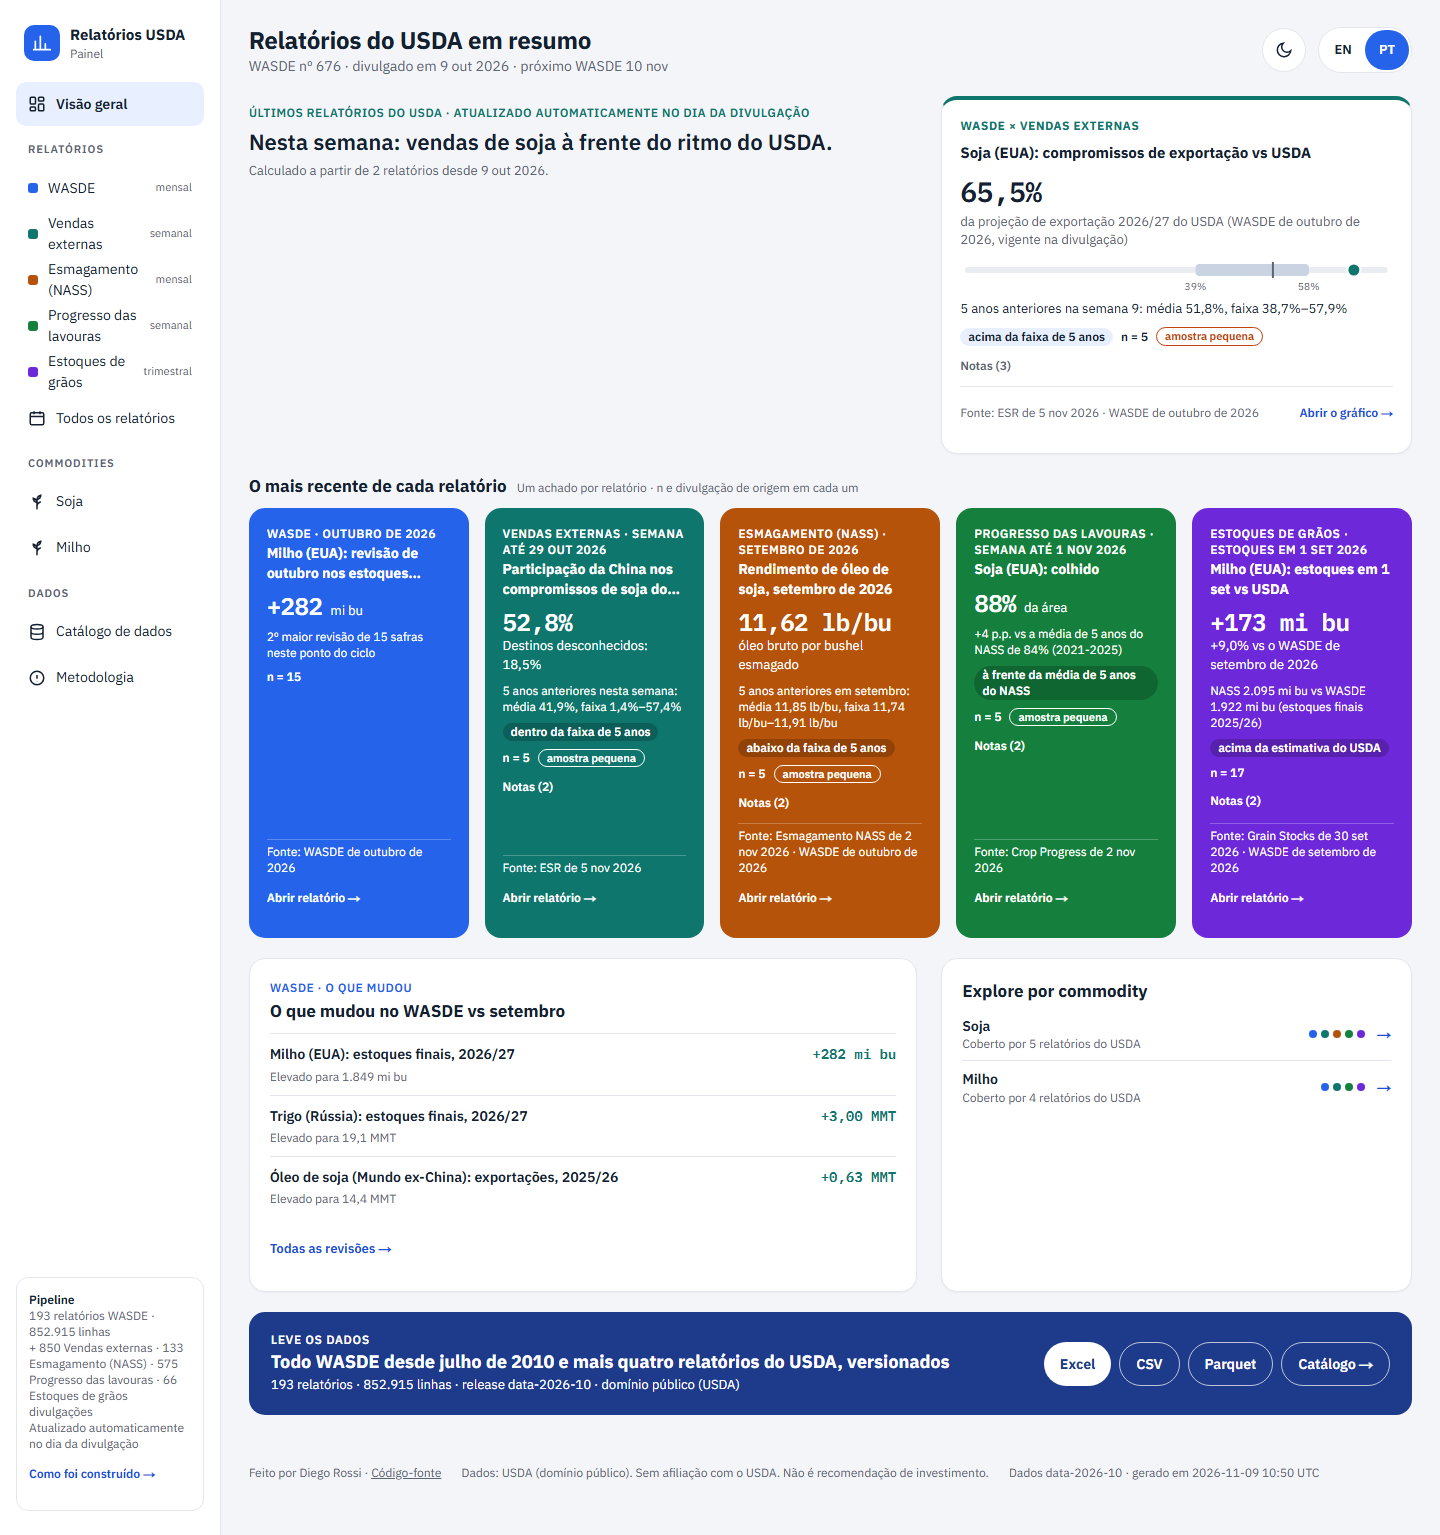
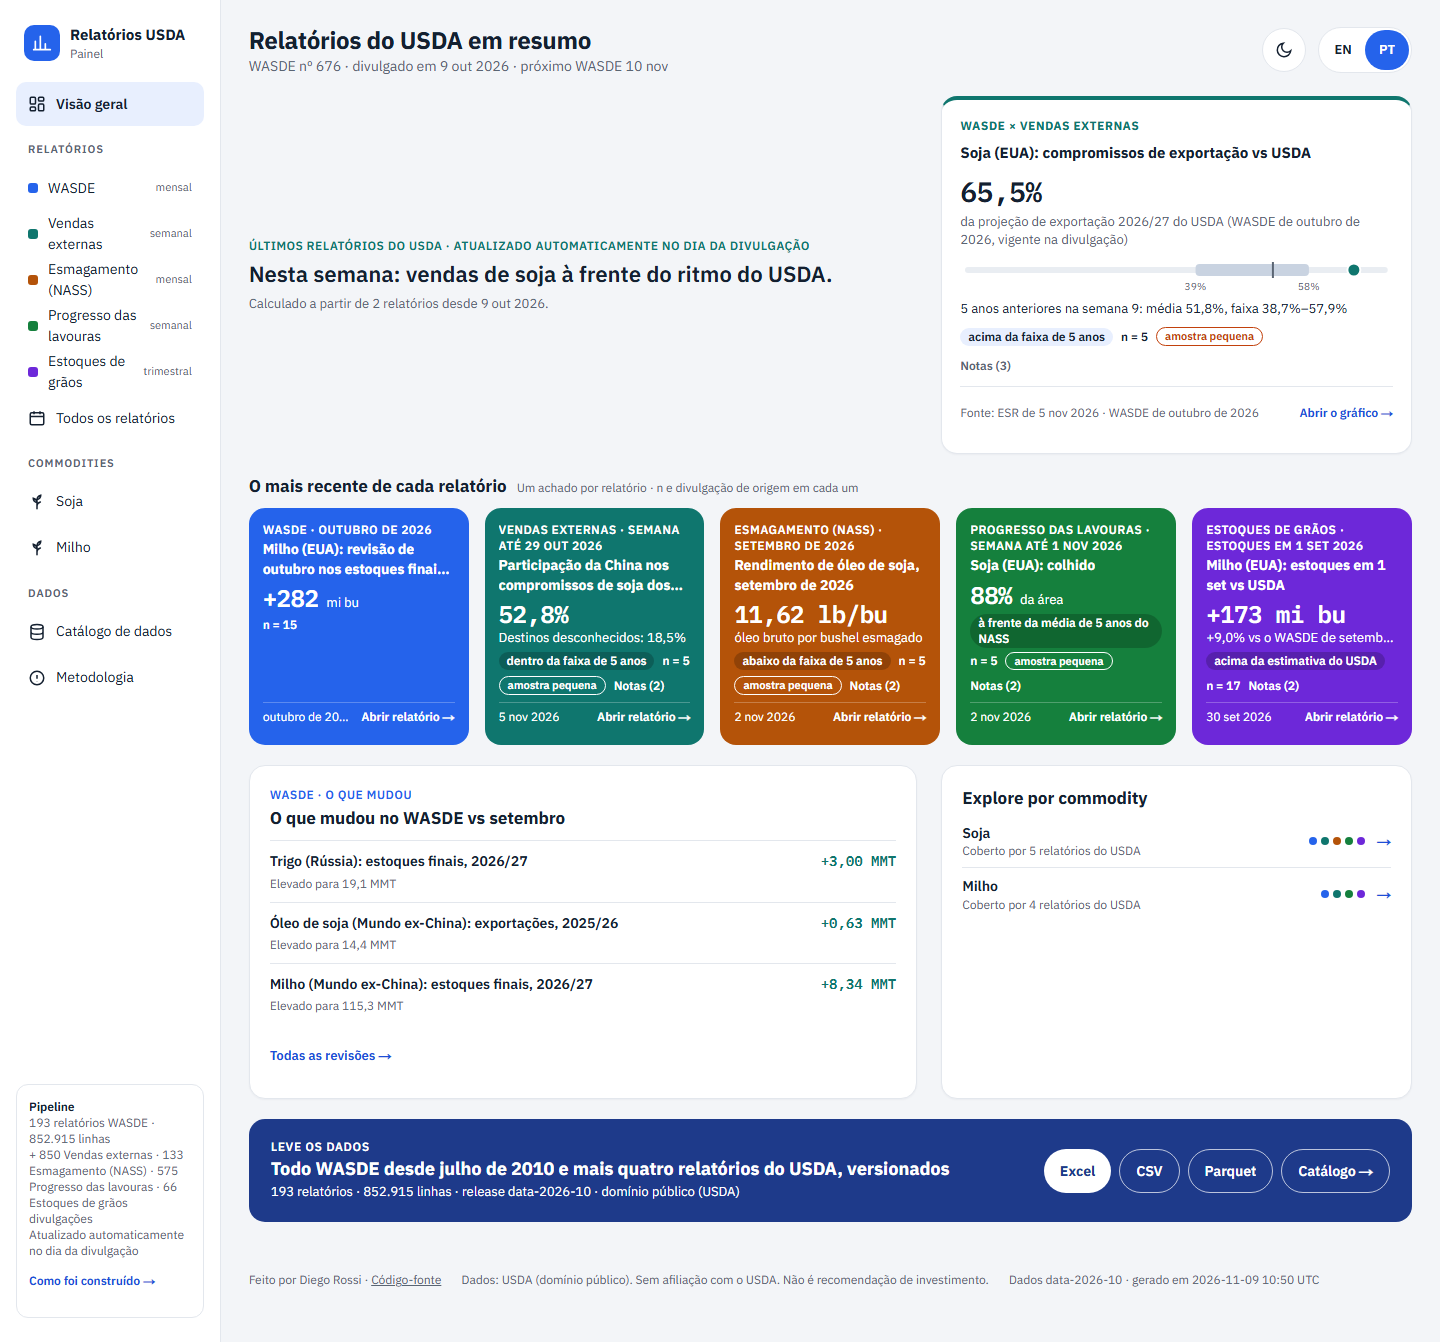
Overview tiles: denser, no repeated revision, PT layout budget
Review fixes for the calmer front page.

- ReportTile: at 1280px+ the context line is hidden and spacing tightened;
  chip, n, small sample and Notes share one meta row; the footer shows just
  the release date (full source in its title and for screen readers) next to
  "Open report". Tiles go from about 411px to 236px at 1440px and end above
  the fold at 1440x900; the page is 1,342px tall in EN and PT (was 1,516).
- Below 560px the value drops under the title when it does not fit beside it
  (flex-wrap instead of a fixed 2-column grid), so a long value such as
  "+173 mil. bu" no longer squeezes the title. Below 480px the context line
  is hidden. At 360px the page is 3,461px in EN and 3,624px in PT (PT was
  4,175px).
- Hero band: the sentence column is vertically centred beside the evidence
  card.
- "What changed in WASDE" on home skips a change that the WASDE tile or the
  hero evidence already prints (lib/lens.ts changeKeyOf/shownChangeKeys).
- sourceDate() in lib/insight-text.ts: the release date of the insight's own
  report.
- smoke.spec.ts: the layout budget runs in EN and PT, 1,400px at 1440 and
  3,800px at 360, tiles at most 260px and above the fold.
- Home screenshots refreshed.

diff --git a/web/components/home/ReportTile.tsx b/web/components/home/ReportTile.tsx
@@ -8,11 +8,18 @@ import type { CardView } from "@/lib/insight-text";
 import { REPORT_TILE } from "@/lib/reports";
 
 /** A solid report tile on the home page: one finding, its n, small-sample chip, position chip and
- *  source release, and a route to the report page. Charts, extra context lines and the Data link
- *  stay on the report pages. Below 560px the header is one row (title left, value right). */
+ *  release date, and a route to the report page. Charts, extra context lines and the Data link stay
+ *  on the report pages. Dense by design (about 200px tall in the 5-across row at 1280px+):
+ *  - header: title left and value right below 560px (the value drops under the title when it does
+ *    not fit); stacked from 560px;
+ *  - the first context line only between 480px and 1279px, where a tile has the width for it;
+ *  - one meta row: chip · n · small sample · Notes, then the release date and "Open report".
+ *    The full source text ("ESR Nov 5, 2026 · WASDE October 2026") is the date's title and is
+ *    read out by screen readers. */
 export default function ReportTile({ v, origin }: { v: CardView; origin: "home" | "also" }) {
   const t = useT();
   const hid = `h-tile-${v.id.replace(/[^a-z0-9]+/gi, "-")}`;
+  const source = t("card.source", { s: v.source });
   return (
     <article
       aria-labelledby={hid}
@@ -20,34 +27,38 @@ export default function ReportTile({ v, origin }: { v: CardView; origin: "home" 
       data-origin={origin}
       data-insight-id={v.id}
       data-report={v.report}
-      className="box-border flex min-w-0 flex-col gap-2 rounded-2xl p-[18px] text-white min-[560px]:min-h-[180px]"
+      className="box-border flex min-w-0 flex-col gap-1.5 rounded-2xl p-[14px] text-white min-[560px]:gap-2 min-[560px]:p-4 min-[1280px]:gap-1 min-[1280px]:p-[14px]"
       style={{ background: REPORT_TILE[v.report] ?? "var(--tile-wasde)" }}
     >
-      {/* Below 560px: title left, value right, the value's note underneath; wider: stacked. */}
-      <div className="grid grid-cols-[minmax(0,1fr)_auto] items-start gap-x-3 gap-y-1 min-[560px]:grid-cols-1 min-[560px]:gap-y-2">
-        <div className="min-w-0">
-          <div className="text-xs font-semibold uppercase tracking-[0.04em]">{v.eyebrow}</div>
+      <div className="flex flex-wrap items-start justify-between gap-x-3 gap-y-1 min-[560px]:flex-col min-[560px]:flex-nowrap min-[560px]:justify-start">
+        <div className="min-w-0 flex-[1_1_160px] min-[560px]:flex-none min-[560px]:self-stretch">
+          <div className="line-clamp-2 text-xs font-semibold uppercase tracking-[0.04em]" title={v.eyebrow}>
+            {v.eyebrow}
+          </div>
           <h3 id={hid} title={v.title} className="m-0 mt-0.5 line-clamp-2 text-[14px] font-bold leading-snug">
             {v.title}
           </h3>
         </div>
-        {/* `contents` below 560px puts the value and its note on the parent grid. */}
-        <div className="max-[559px]:contents min-[560px]:flex min-[560px]:flex-wrap min-[560px]:items-baseline min-[560px]:gap-x-2">
+        <div className="ml-auto flex min-w-0 max-w-full flex-col items-end text-right min-[560px]:ml-0 min-[560px]:flex-row min-[560px]:flex-wrap min-[560px]:items-baseline min-[560px]:gap-x-2 min-[560px]:text-left">
           <span
-            className="mono whitespace-nowrap text-right text-[24px] font-semibold leading-tight tracking-[-0.02em] min-[560px]:whitespace-normal min-[560px]:text-left min-[560px]:text-[28px] min-[1280px]:text-[22px] min-[1440px]:text-[24px]"
+            className="mono whitespace-nowrap text-[22px] font-semibold leading-tight tracking-[-0.02em] min-[560px]:text-[26px] min-[1280px]:text-[22px] min-[1440px]:text-[24px]"
             data-param={v.valueParam}
           >
             {v.value}
           </span>
-          {v.valueNote && <span className="col-span-2 text-[13px]">{v.valueNote}</span>}
+          {v.valueNote && (
+            <span className="line-clamp-1 text-[12px] min-[560px]:text-[13px]" title={v.valueNote}>
+              {v.valueNote}
+            </span>
+          )}
         </div>
       </div>
       {v.context[0] && (
-        <p className="m-0 text-xs" data-testid="card-context">
+        <p className="m-0 line-clamp-2 text-xs max-[479px]:hidden min-[1280px]:hidden" data-testid="card-context">
           {v.context[0]}
         </p>
       )}
-      <div className="flex flex-wrap items-center gap-2 text-xs">
+      <div className="flex flex-wrap items-center gap-x-2 gap-y-1 text-xs">
         {v.chip && (
           <span className="rounded-full bg-black/20 px-2 py-[1px] font-semibold" data-testid="card-chip">
             {v.chip}
@@ -57,11 +68,19 @@ export default function ReportTile({ v, origin }: { v: CardView; origin: "home" 
           {t("card.n", { n: v.n ?? "—" })}
         </span>
         {v.small && <SmallChip tone="onColor" />}
+        <CardNotes caveats={v.caveats} className="text-white open:basis-full" onColor />
       </div>
-      <CardNotes caveats={v.caveats} className="text-white" onColor />
-      <div className="mt-auto flex flex-wrap items-center justify-between gap-x-3 border-t border-white/25 pt-1 text-xs">
-        <span data-testid="card-source">{t("card.source", { s: v.source })}</span>
-        <Link href={v.href} className="inline-flex min-h-11 items-center font-semibold text-white focus-visible:outline-white">
+      <div className="mt-auto flex items-center justify-between gap-x-3 border-t border-white/25 pt-0.5 text-xs min-[1280px]:pt-0">
+        <span className="min-w-0 truncate" title={source}>
+          <span aria-hidden="true">{v.sourceDate}</span>
+          <span className="sr-only" data-testid="card-source">
+            {source}
+          </span>
+        </span>
+        <Link
+          href={v.href}
+          className="inline-flex min-h-11 shrink-0 items-center font-semibold text-white focus-visible:outline-white min-[1280px]:min-h-7"
+        >
           <T k="card.openReport" />
         </Link>
       </div>

diff --git a/web/e2e/smoke.spec.ts b/web/e2e/smoke.spec.ts
@@ -51,22 +51,32 @@ test("biggest revisions list on /reports/wasde/ matches overview.json", async ({
     await expect(page.locator('[aria-labelledby="h-chg"]').getByRole("link", { name: /All changes \(Excel\)/ })).toBeVisible();
 });
 
-test("home layout budget: about one screen at 1440px, one chart, no sideways scroll at 360px", async ({ page }) => {
-  await page.setViewportSize({ width: 1440, height: 900 });
-  await page.goto("/");
-  await page.waitForTimeout(300);
-  expect(await page.evaluate(() => document.documentElement.scrollHeight)).toBeLessThanOrEqual(1700);
-  // The only chart on the overview is the hero evidence card's range strip.
-  await expect(page.locator('main svg[role="img"]')).toHaveCount(await page.locator('[data-origin="hero"]').count());
-  // Tiles in one row have the same height.
-  const boxes = await page.locator('[data-testid="report-tiles"] > *').evaluateAll((els) => els.map((e) => e.getBoundingClientRect().height));
-  if (boxes.length) expect(Math.max(...boxes) - Math.min(...boxes)).toBeLessThanOrEqual(1);
-  await page.setViewportSize({ width: 360, height: 780 });
-  await page.goto("/");
-  await page.waitForTimeout(300);
-  expect(await page.evaluate(() => document.documentElement.scrollHeight)).toBeLessThanOrEqual(4000); // 3,000 once the mobile drawer ships
-  expect(await page.evaluate(() => document.documentElement.scrollWidth - window.innerWidth)).toBeLessThanOrEqual(0);
-});
+for (const lang of ["en", "pt"] as const) {
+  test(`home layout budget (${lang}): about one screen at 1440px, one chart, no sideways scroll at 360px`, async ({ page }) => {
+    // pt-BR strings run longer: the budget must hold in both languages.
+    if (lang === "pt") await page.addInitScript(() => localStorage.setItem("usda-lang", "pt"));
+    await page.setViewportSize({ width: 1440, height: 900 });
+    await page.goto("/");
+    await page.waitForTimeout(300);
+    expect(await page.evaluate(() => document.documentElement.scrollHeight)).toBeLessThanOrEqual(1400);
+    // The only chart on the overview is the hero evidence card's range strip.
+    await expect(page.locator('main svg[role="img"]')).toHaveCount(await page.locator('[data-origin="hero"]').count());
+    // Tiles in one row have the same height, and stay dense (the full story is on the report pages).
+    const boxes = await page.locator('[data-testid="report-tiles"] > *').evaluateAll((els) => els.map((e) => e.getBoundingClientRect()));
+    if (boxes.length) {
+      const hs = boxes.map((b) => b.height);
+      expect(Math.max(...hs) - Math.min(...hs)).toBeLessThanOrEqual(1);
+      expect(Math.max(...hs)).toBeLessThanOrEqual(260);
+      // The tiles sit above the fold at 1440x900.
+      expect(Math.max(...boxes.map((b) => b.bottom))).toBeLessThanOrEqual(900);
+    }
+    await page.setViewportSize({ width: 360, height: 780 });
+    await page.goto("/");
+    await page.waitForTimeout(300);
+    expect(await page.evaluate(() => document.documentElement.scrollHeight)).toBeLessThanOrEqual(3800); // 3,000 once the mobile drawer ships
+    expect(await page.evaluate(() => document.documentElement.scrollWidth - window.innerWidth)).toBeLessThanOrEqual(0);
+  });
+}
 
 test("commodity page renders charts and switches region", async ({ page }) => {
   await page.goto("/commodity/corn/");

diff --git a/web/lib/insight-text.ts b/web/lib/insight-text.ts
@@ -83,6 +83,14 @@ export function sourceText(i: Insight, lang: Lang): string {
     .join(" · ");
 }
 
+/** Just the release date of the insight's own report ("Nov 5, 2026" / "October 2026"): the short
+ *  source on the home tiles, whose full source text stays in the title and for screen readers. */
+export function sourceDate(i: Insight, lang: Lang): string {
+  const r = i.inputs.find((x) => x.report_id === i.report_id) ?? i.inputs[0];
+  if (!r) return "";
+  return r.report_id === "wasde" ? monthYear(r.release_key, lang) : (shortDate(r.release_key, true, lang) ?? r.release_key);
+}
+
 /** "corn" / "winter wheat" (lower case), "Corn" / "Winter wheat" (title case). */
 export const cropName = (crop: string, lang: Lang) => translate(lang, `crop.${crop}` as Key);
 export const cropTitle = (crop: string, lang: Lang) => translate(lang, `cropT.${crop}` as Key);
@@ -136,6 +144,8 @@ export type CardView = {
   small: boolean;
   caveats: string[];
   source: string;
+  /** The release date alone (home tiles). */
+  sourceDate: string;
   href: string;
 };
 
@@ -181,6 +191,7 @@ function cardViewImpl(i: Insight, lang: Lang): CardView | null {
     small: isSmall(i),
     caveats: i.caveats.filter((x) => x !== "small_sample").map((x) => caveatText(x, lang, i.rule)),
     source: sourceText(i, lang),
+    sourceDate: sourceDate(i, lang),
     valueNote: null as string | null,
     chip: null as string | null,
     range: null as CardView["range"],

diff --git a/web/components/home/HomeView.tsx b/web/components/home/HomeView.tsx
@@ -7,6 +7,7 @@ import ExploreCommodities from "@/components/home/ExploreCommodities";
 import ReportTiles, { HeroBand } from "@/components/home/InsightCards";
 import BiggestRevisions from "@/components/wasde/BiggestRevisions";
 import type { HomeData } from "@/lib/dashboard";
+import { shownChangeKeys } from "@/lib/lens";
 import type { CommodityLens, InsightsDoc } from "@/lib/data-contract";
 import type { Lang } from "@/lib/i18n";
 
@@ -29,6 +30,9 @@ export default function HomeView({
 }) {
   const { lang } = useLang();
   const data = all[lang] ?? all.en;
+  // A change the WASDE tile (or the hero evidence) already prints is not repeated in the list.
+  const shown = shownChangeKeys(insights);
+  const changes = data.changes.filter((c) => !shown.has(c.key));
 
   return (
     <>
@@ -40,7 +44,7 @@ export default function HomeView({
 
       <div className="grid grid-cols-1 gap-4 lg:grid-cols-12 lg:gap-6">
         <div className={`flex min-w-0 flex-col [&>*]:flex-1 ${lenses.length ? "lg:col-span-7" : "lg:col-span-12"}`}>
-          <BiggestRevisions changes={data.changes} prevMonth={data.prevMonth} excel={data.downloads.excel} limit={3} bars={false} />
+          <BiggestRevisions changes={changes} prevMonth={data.prevMonth} excel={data.downloads.excel} limit={3} bars={false} />
         </div>
         {lenses.length > 0 && (
           <div className="flex min-w-0 flex-col lg:col-span-5 [&>*]:flex-1">

diff --git a/web/lib/lens.ts b/web/lib/lens.ts
@@ -235,3 +235,20 @@ export function homeTiles(doc: InsightsDoc | null): HomeTile[] {
   }
   return out.sort((a, b) => REPORT_ORDER.indexOf(a.insight.report_id) - REPORT_ORDER.indexOf(b.insight.report_id));
 }
+
+/** The overview.json change key ("corn-united_states-2026/27-ending_stocks", as ChangeRow.key) that
+ *  a WASDE revision finding (W1/W3 on a U.S. table) already shows, so the home "What changed in
+ *  WASDE" list can skip that row instead of printing the same number twice. Null otherwise. */
+export function changeKeyOf(i: Insight | null | undefined): string | null {
+  if (!i || i.report_id !== "wasde" || (i.rule !== "W1" && i.rule !== "W3")) return null;
+  const { table_id: table, attribute_id: attr, market_year: my } = i.params;
+  if (typeof table !== "string" || !table.startsWith("us_") || typeof attr !== "string" || typeof my !== "string") return null;
+  return `${i.commodity_id}-united_states-${my}-${attr}`;
+}
+
+/** The home tiles' and hero evidence's change keys (see changeKeyOf). */
+export function shownChangeKeys(doc: InsightsDoc | null): Set<string> {
+  if (!doc) return new Set();
+  const keys = [heroEvidence(doc), ...homeTiles(doc).map((x) => x.insight)].map(changeKeyOf);
+  return new Set(keys.filter((k): k is string => k !== null));
+}

diff --git a/web/components/home/InsightCards.tsx b/web/components/home/InsightCards.tsx
@@ -144,7 +144,7 @@ export function HeroBand({ doc }: { doc: InsightsDoc }) {
     <div className="grid grid-cols-1 items-start gap-4 lg:grid-cols-12 lg:gap-6">
       <section
         aria-labelledby="h-hero"
-        className={`flex flex-col gap-1.5 ${v ? "lg:col-span-7" : "lg:col-span-12"} lg:pt-2`}
+        className={`flex flex-col gap-1.5 ${v ? "lg:col-span-7 lg:self-center" : "lg:col-span-12"}`}
         data-testid="hero"
         data-kind={h.kind}
       >
